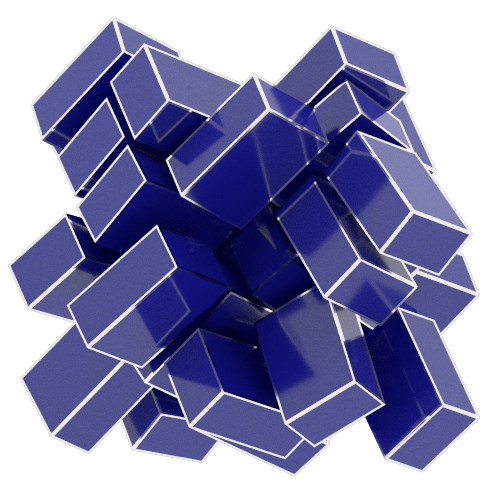
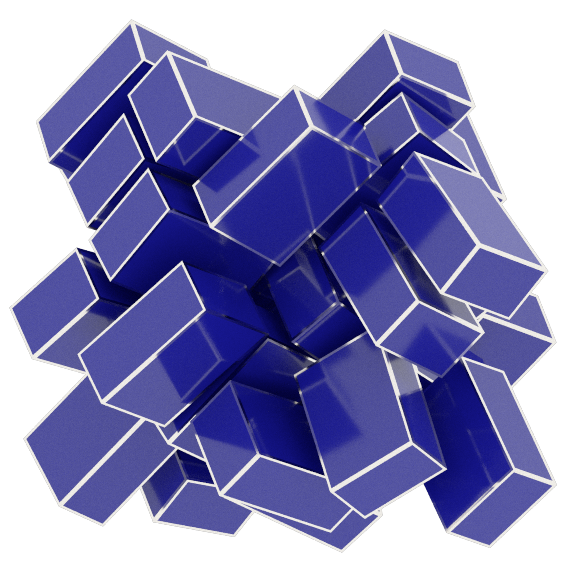
HiDPI gallery images

diff --git a/doc/cuboid.py b/doc/cuboid.py
@@ -4,14 +4,13 @@ data = numpy.load('cuboids.npz')
 
 scene = fresnel.Scene()
 scene.lights = fresnel.light.lightbox()
+W,H,D = data['width']
+poly_info = fresnel.util.convex_polyhedron_from_vertices(
+    [[-W,-H,-D], [-W,-H, D], [-W, H,-D], [-W, H, D],
+     [ W,-H,-D], [ W,-H, D], [ W, H,-D], [ W, H, D]])
 
 geometry = fresnel.geometry.ConvexPolyhedron(
-    scene,
-    origins = [[-data['width'][0],0,0], [data['width'][0],0,0], [0, -data['width'][1], 0],
-               [0, data['width'][1], 0], [0, 0, -data['width'][2]], [0, 0, data['width'][2]]],
-    normals = [[-1,0,0], [1,0,0], [0, -1, 0],
-               [0, 1, 0],[0, 0, -1], [0, 0, 1]],
-    r = math.sqrt(data['width'][0]**2 + data['width'][1]**2 + data['width'][2]**2),
+    scene, poly_info,
     position = data['position'],
     orientation = data['orientation'],
     outline_width = 0.015)
@@ -25,6 +24,7 @@ geometry.outline_material = fresnel.material.Material(
     metal = 1.0)
 
 scene.camera = fresnel.camera.fit(scene, view='front')
-
-out = fresnel.pathtrace(scene, samples=64, light_samples=32, w=500, h=500)
+out = fresnel.pathtrace(scene, samples=64,
+                        light_samples=32,
+                        w=580, h=580)
 PIL.Image.fromarray(out[:], mode='RGBA').save('cuboid.png')

diff --git a/doc/sphere.py b/doc/sphere.py
@@ -16,5 +16,7 @@ geometry.material = fresnel.material.Material(
     roughness = 0.8,
     specular = 0.2)
 
-out = fresnel.pathtrace(scene, samples=64, light_samples=32, w=500, h=500)
+out = fresnel.pathtrace(scene, samples=64,
+                        light_samples=32,
+                        w=580, h=580)
 PIL.Image.fromarray(out[:], mode='RGBA').save('sphere.png')

diff --git a/README.md b/README.md
@@ -1,15 +1,13 @@
 # Fresnel
 
-Fresnel is a python library that ray traces publication quality images in real time.
+**fresnel** is a python library that ray traces publication quality images in real time.
 
 Read the [tutorial and reference documentation on readthedocs](<https://fresnel.readthedocs.io/>).
 
-## Samples
+## Gallery
 
 Here are a few samples of what **fresnel** can do:
 
-![spheres](doc/sphere.png)
-Generated by: [sphere.py](doc/sphere.py>).
+[<img src="doc/sphere.png" width="290" />](doc/sphere.py)
+[<img src="doc/cuboid.png" width="290" />](doc/cuboid.py)
 
-![cuboids](doc/cuboid.png)
-Generated by: [cuboid.py](doc/cuboid.py).

diff --git a/doc/index.rst b/doc/index.rst
@@ -12,15 +12,21 @@ _______
 
 Here are a few quick samples of what **fresnel** can do:
 
-.. image:: sphere.png
+.. sidebar:: Sphere
+
+    .. image:: sphere.png
+        :width: 275px
 
 .. literalinclude:: sphere.py
-    :lines: 1-19
+    :lines: 3-21
 
-.. image:: cuboid.png
+.. sidebar:: Cuboids
+
+    .. image:: cuboid.png
+        :width: 275px
 
 .. literalinclude:: cuboid.py
-    :lines: 1-29
+    :lines: 3-29
 
 .. toctree::
     :maxdepth: 1
